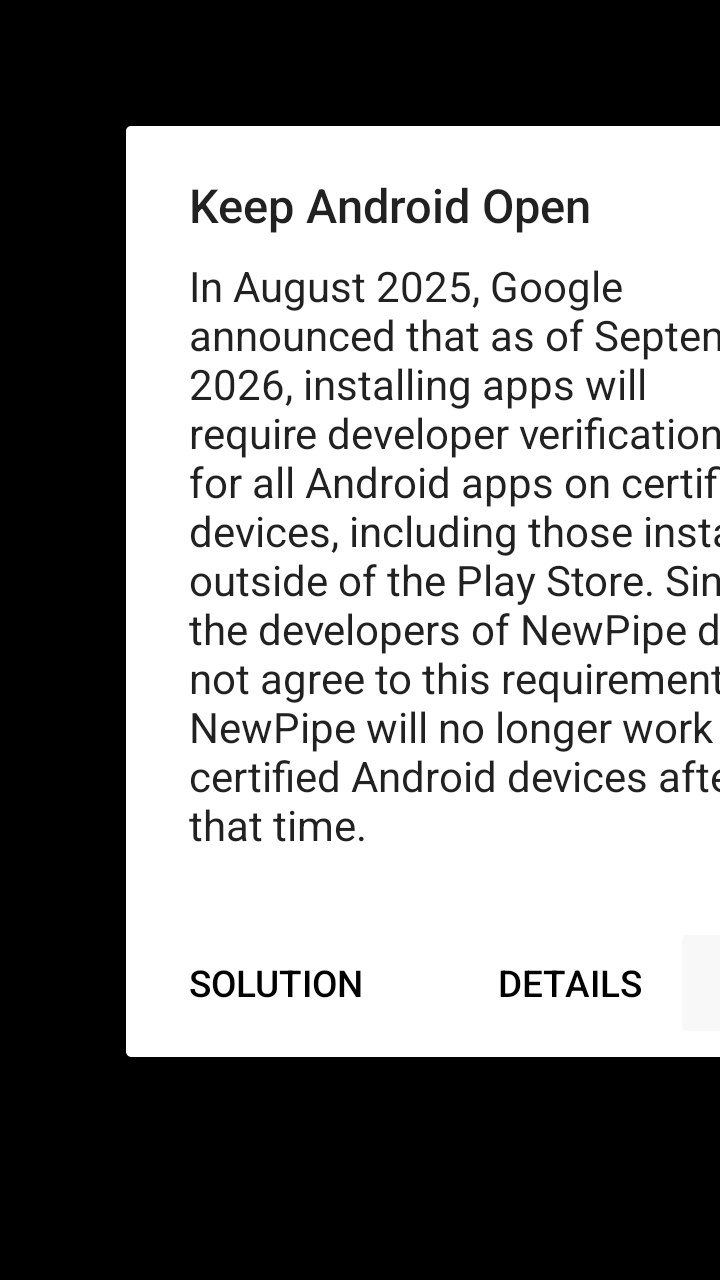
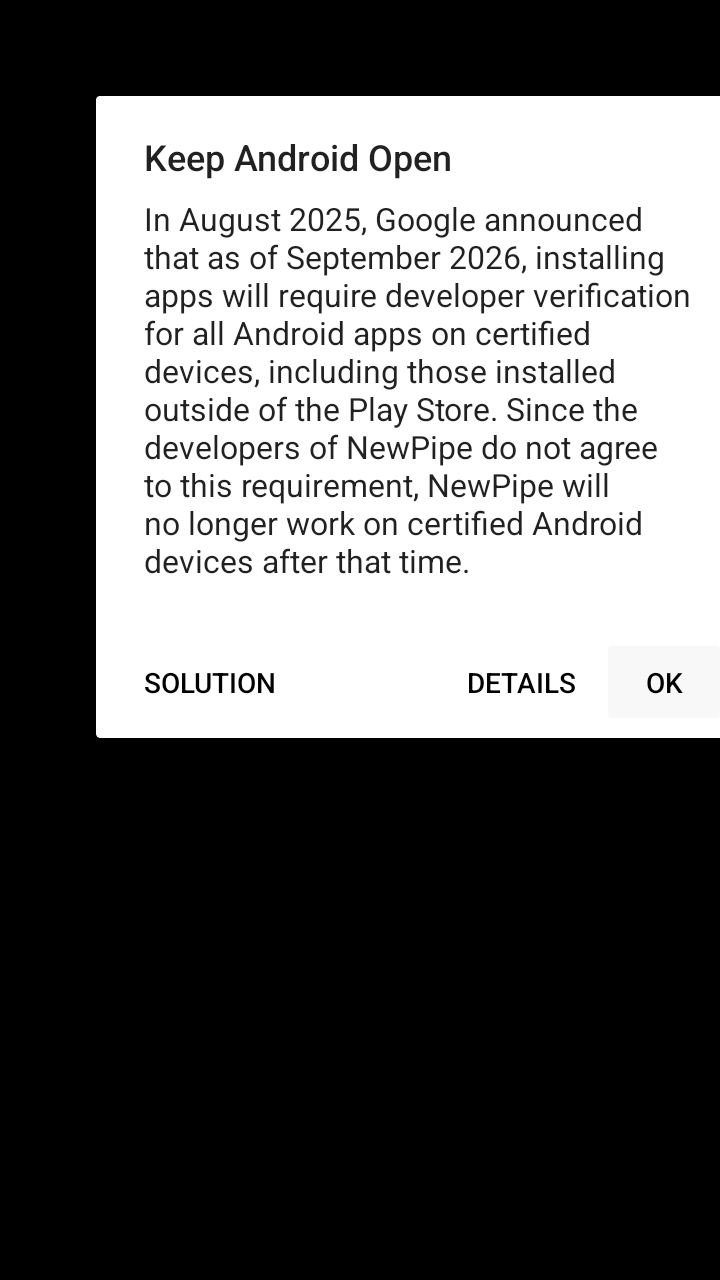
cli: one density derived from the surface, so dp sizes cannot drift
screenWidthDp/screenHeightDp were still the landscape 1280x720 values (487x274)
while densityDpi was 420, so the app believed it had a 487x274 dp screen. At 420
dpi a 720 px surface is only 274 dp wide, which is narrower than a Material
AlertDialog's 280 dp minimum — NewPipe's dialog overflowed the surface and its OK
button was cut off entirely.

DENSITY_DPI is now 320 (360x640 dp, a conventional small phone) and the dp fields
are computed from SURFACE_W/H, so the four places that used to hardcode these
numbers cannot disagree again. The dialog now renders in full, with all three
buttons.

Verified by comparing frame hashes before and after: identical hashes showed the
first rebuild had not taken effect, which is how the stale-binary trap looked
this time.

diff --git a/crates/pengudroid-cli/src/apphost.rs b/crates/pengudroid-cli/src/apphost.rs
@@ -28,6 +28,21 @@ use std::ffi::c_void;
 /// FBO the window frame described as 720x1280.
 const SURFACE_W: i32 = 720;
 const SURFACE_H: i32 = 1280;
+
+/// The display density, in dpi.
+///
+/// Everything the framework lays out is scaled by this: `dp = px * 160 / dpi`.
+/// At 320 dpi the surface is 360x640 dp, which is a conventional small phone.
+/// It used to be 420 dpi while the dp fields were still the *landscape* 1280x720
+/// values, so the app believed it had a 487x274 dp screen — and a Material
+/// `AlertDialog`, whose minimum width is 280 dp, came out wider than the 274 dp
+/// it thought it had and was clipped by the surface edge.
+const DENSITY_DPI: i32 = 320;
+
+/// The surface width in dp.
+const SURFACE_W_DP: i32 = SURFACE_W * 160 / DENSITY_DPI;
+/// The surface height in dp.
+const SURFACE_H_DP: i32 = SURFACE_H * 160 / DENSITY_DPI;
 use std::path::Path;
 
 use crate::jni::{JClass, JFieldId, JMethodId, JObject, JValue, JniEnv};
@@ -179,11 +194,11 @@ fn new_configuration(env: &JniEnv) -> Option<JObject> {
             env.set_int_field(config, id, value);
         }
     };
-    set_int("densityDpi", 420);
-    // 1280x720 at 420 dpi, in dp.
-    set_int("screenWidthDp", 487);
-    set_int("screenHeightDp", 274);
-    set_int("smallestScreenWidthDp", 274);
+    set_int("densityDpi", DENSITY_DPI);
+    // Derived from the surface so the two can never disagree again.
+    set_int("screenWidthDp", SURFACE_W_DP);
+    set_int("screenHeightDp", SURFACE_H_DP);
+    set_int("smallestScreenWidthDp", SURFACE_W_DP.min(SURFACE_H_DP));
     Some(config)
 }
 
@@ -279,7 +294,7 @@ fn fix_app_configuration(env: &JniEnv, data: JObject) {
         }
     }
     if let Some(id) = env.field_id(cfg_class, "densityDpi", "I") {
-        env.set_int_field(cfg, id, 420);
+        env.set_int_field(cfg, id, DENSITY_DPI);
     }
     // `ResourcesManager` builds every new `Resources` from its process-wide
     // configuration, and `Resources.getSystem()` exposes that same instance.
@@ -302,7 +317,7 @@ fn fix_app_configuration(env: &JniEnv, data: JObject) {
                         }
                     }
                     if let Some(id) = env.field_id(cfg_class, "densityDpi", "I") {
-                        env.set_int_field(sys_cfg, id, 420);
+                        env.set_int_field(sys_cfg, id, DENSITY_DPI);
                     }
                     if let Some(get_locales) = env.method_id(
                         cfg_class,
@@ -2425,7 +2440,7 @@ fn install_display_replies(env: &JniEnv) {
     // makes `DisplayMetrics.density` zero — which turns
     // `ThreadedRenderer.setLightCenter`'s `zRatio` into Infinity and aborts the
     // first traversal with "lightZ must be a finite positive".
-    set_int("logicalDensityDpi", 420);
+    set_int("logicalDensityDpi", DENSITY_DPI);
     // Display.STATE_ON = 2, Display.TYPE_INTERNAL = 1, Surface.ROTATION_0 = 0.
     set_int("state", 2);
     set_int("committedState", 2);

diff --git a/docs/STATUS.md b/docs/STATUS.md
@@ -144,6 +144,22 @@ flipped_180 = (x, y) -> (w-1-x, y) -> (w-1-x, h-1-y) = (x, h-1-y)
 Yani tam olarak yukarı-aşağı çevirme — ihtiyacımız olan şey. Bedava: bileşitirici
 örneklerken uyguluyor, kopyalama yok.
 
+### Yoğunluk (density) düzeltildi — diyaloglar kırpılmıyordu
+
+`screenWidthDp`/`screenHeightDp` **eski yatay geometriden** kalma 487x274 idi,
+`densityDpi` ise 420. Yani uygulama kendini 487x274 dp'lik bir ekran sanıyordu
+(720/2.625 = 274 dp). Material `AlertDialog`'un minimum genişliği 280 dp olduğu
+ için diyalog ekrandan taşıyor, sağdaki `OK` düğmesi tamamen kesiliyordu
+(`docs/screenshots/newpipe-dialog.png` düzeltmeden sonra: üç düğme de görünüyor).
+
+Artık tek kaynak var: `apphost::DENSITY_DPI = 320`, ve
+`SURFACE_W/H`'den türetilen `SURFACE_W_DP/U_H_DP` (360x640 dp). Değerler dört
+ayrı yerde elle yazılmıyor, dolayısıyla bir daha kayamazlar.
+
+Kalan ufak kusur: diyalog penceresi hâlâ 720'den biraz geniş konumlanıyor
+(sol kenar x=96, sağ kenar 720'de bitiyor), yani tam ortalı değil. İçerik ve
+düğmeler görünür durumda.
+
 ### Bilinen artıklar
 
 1. **`EGL_BAD_DISPLAY` seli — ÇÖZÜLDÜ (`26ce279`).** Sebep `eglBeginFrame`.
